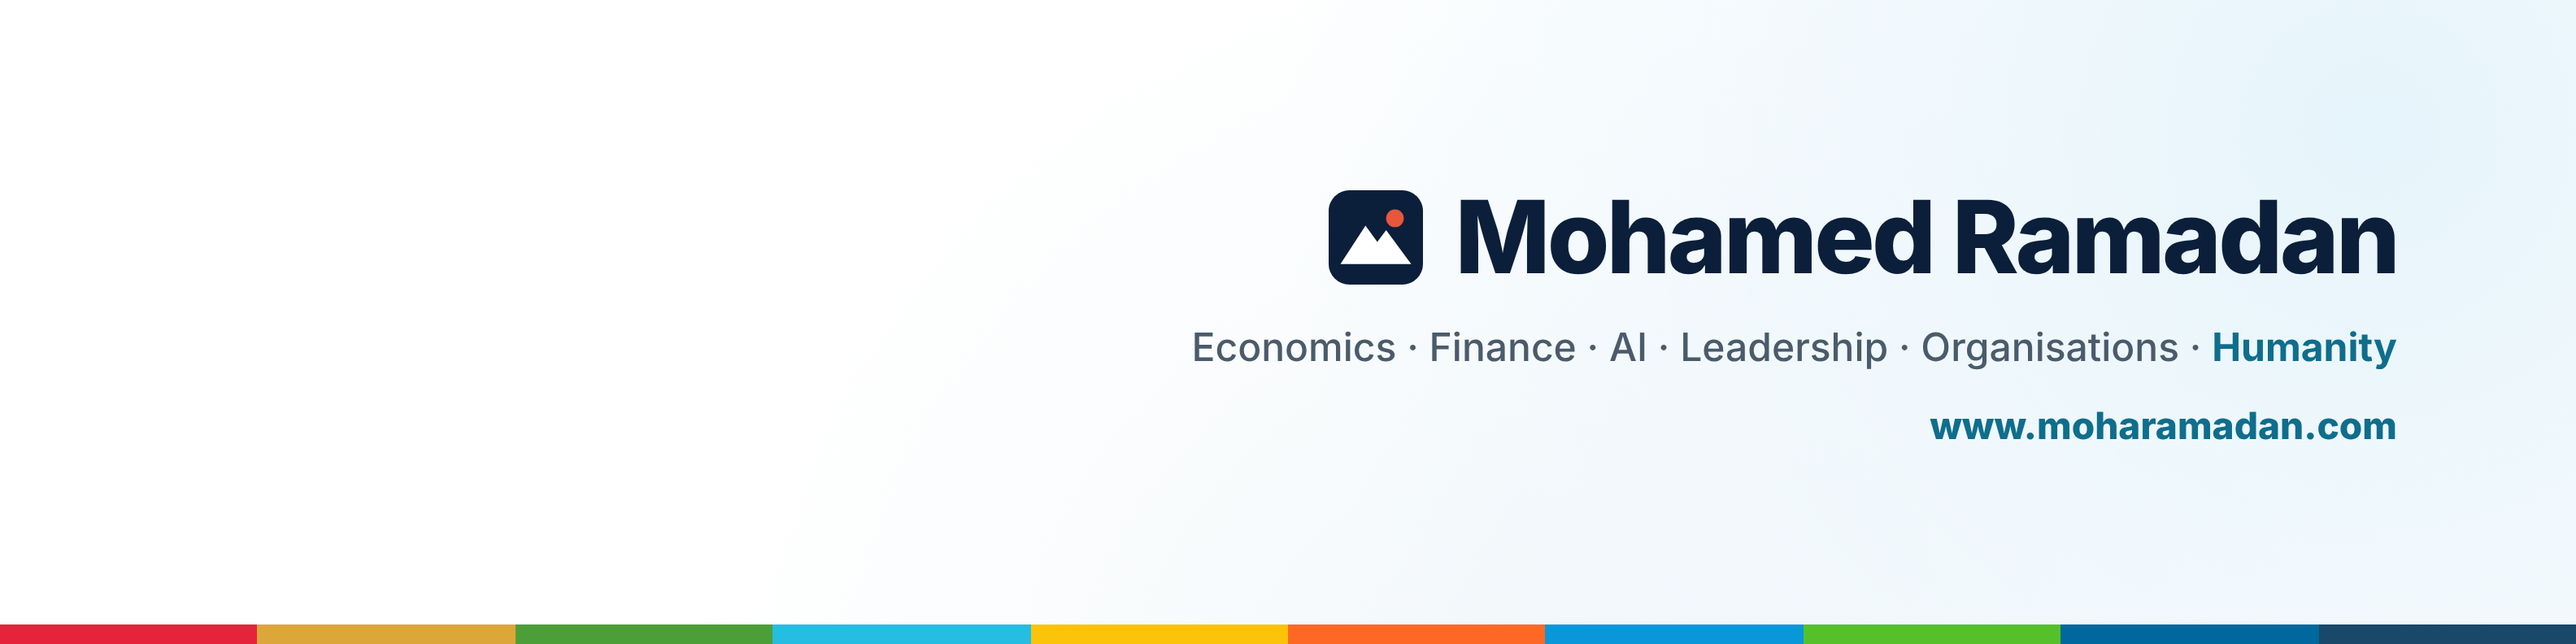
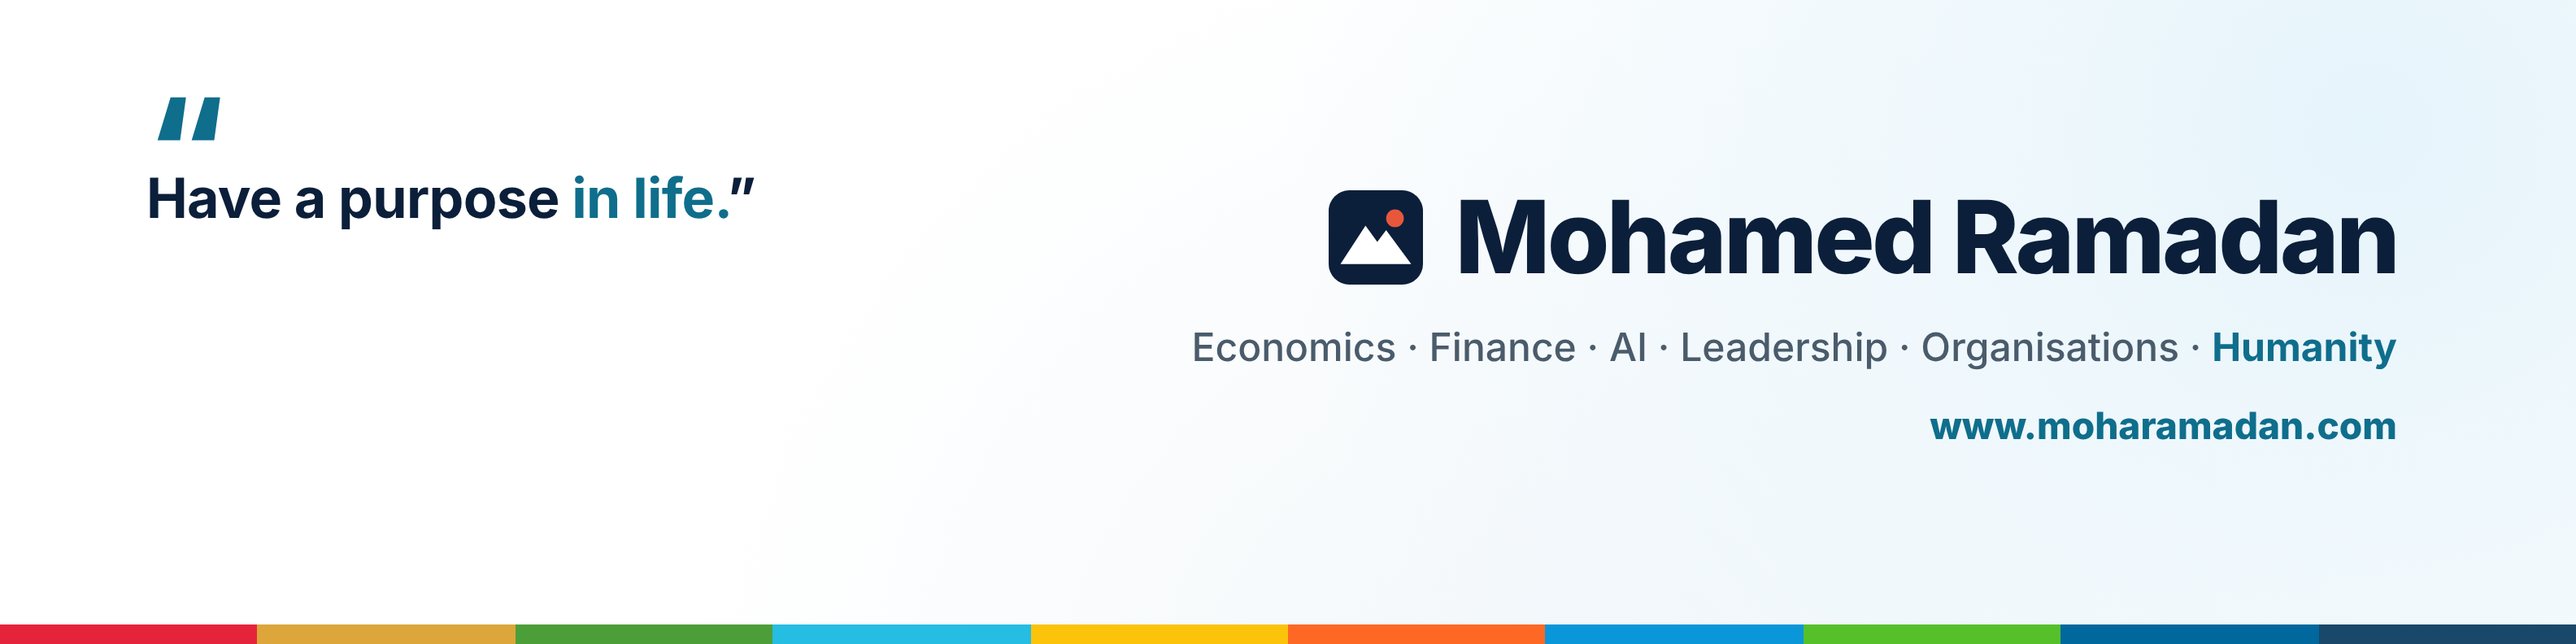
Devise « Have a purpose in life » : bannière, À propos et pied de page (#32)
Claude-Session: https://claude.ai/code/session_012uv7PBQbcSTMCaDnUm1tLH

Changed region(s): [[0.0312, 0.2727, 0.3125, 0.3636], [0.0625, 0.1515, 0.0938, 0.2424]]

diff --git a/site/style.css b/site/style.css
@@ -361,3 +361,4 @@ a.nt{transition:box-shadow .2s}a.nt:hover{box-shadow:0 8px 24px rgba(11,31,58,.0
 .ex-g{display:grid;grid-template-columns:repeat(2,1fr);gap:14px;margin-top:14px}@media (min-width:700px){.ex-g{grid-template-columns:repeat(4,1fr)}}
 .ex-g div{background:var(--soft);border-radius:8px;padding:14px}.ex-g b{display:block;font-size:26px;font-weight:800;color:var(--blue);letter-spacing:-.02em}.ex-g span{display:block;font-size:13px;line-height:1.4;color:var(--muted);margin-top:4px}
 .exhibit .ex-s{font-size:12.5px;color:var(--faint);margin-top:10px}
+.about .motto{font-size:22px;font-weight:700;color:#9CD3E3!important;margin-top:8px}.ft8-m{font-size:15px;font-weight:600;color:#fff;font-style:italic}
